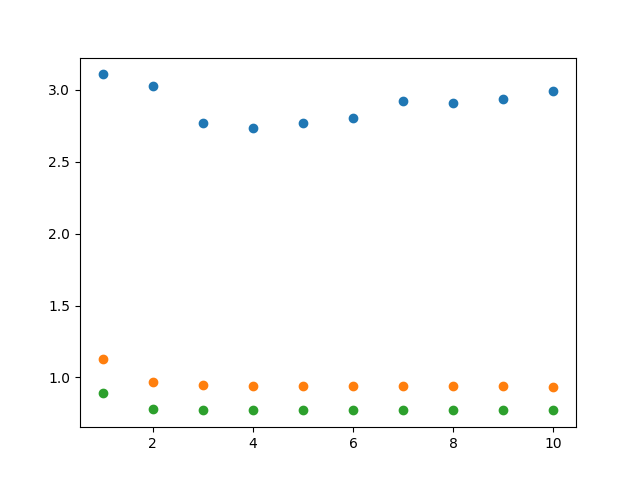
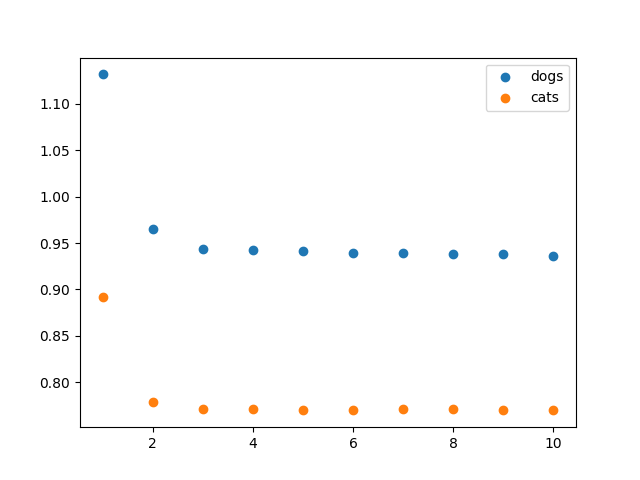
updates not sure what changed

diff --git a/Homework_4/data_generation.py b/Homework_4/data_generation.py
@@ -67,16 +67,10 @@ def generate_2d_Gaussian_Mixture_pdf(data, components = 1,color = 'black'):
     plt.axis("tight")
     
     
-def generate_1d_Gaussian_Mixture_logprob(data, components = 1, color = 'black'):
+def generate_Gaussian_Mixture_logprob(data, components = 1, color = 'black'):
     GM_1 = mixture.GaussianMixture(components)
     GM_1.fit(data)
     data = np.array(data[0]).reshape(-1,1)
-    likelihood = -(GM_1.score(data))
-    return likelihood
-
-def generate_2d_Gaussian_Mixture_logprob(data, components = 1, color = 'black'):
-    GM_1 = mixture.GaussianMixture(components)
-    GM_1.fit(data)
     likelihood = -(GM_1.score(data))
     return likelihood
 
@@ -108,7 +102,7 @@ def q3(total_points):
 def q4(total_points):
     logprobs = []
     for i in range(10):
-        logprobs.append(generate_1d_Gaussian_Mixture_logprob(total_points,i+1))
+        logprobs.append(generate_Gaussian_Mixture_logprob(total_points,i+1))
     print(logprobs)
     x = np.linspace(1,10,10)
     plt.scatter(x,logprobs)
@@ -135,11 +129,12 @@ def q5():
     dogslogprobs = []
     catslogprobs = []
     for i in range(10):
-        dogslogprobs.append(generate_2d_Gaussian_Mixture_logprob(traindogs,i+1))
-        catslogprobs.append(generate_2d_Gaussian_Mixture_logprob(traincats,i+1))
+        dogslogprobs.append(generate_Gaussian_Mixture_logprob(traindogs,i+1))
+        catslogprobs.append(generate_Gaussian_Mixture_logprob(traincats,i+1))
     x = np.linspace(1,10,10)
-    plt.scatter(x,dogslogprobs)
-    plt.scatter(x,catslogprobs)
+    plt.scatter(x,dogslogprobs,label="dogs")
+    plt.scatter(x,catslogprobs,label="cats")
+    plt.legend(["dogs","cats"])
     plt.savefig("q5.png")
 
     
@@ -162,6 +157,7 @@ def main():
     #q2(total_points)
     #q3(total_points)
     q4(total_points)
+    plt.cla()
     q5()
     
 main()
